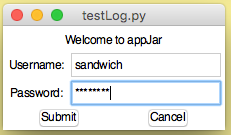
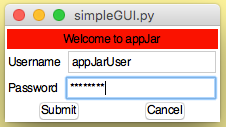
Updated front page

diff --git a/index.html b/index.html
@@ -323,15 +323,15 @@
     
         <li class="main active"><a href="#appjar">appJar</a></li>
         
-            <li><a href="#lets-make-a-sandwich">Let's make a sandwich</a></li>
+            <li><a href="#hello-appjar">Hello appJar</a></li>
         
-            <li><a href="#add-some-fillings">Add some fillings...</a></li>
+            <li><a href="#interactivity">Interactivity</a></li>
         
-            <li><a href="#foot-long-sub">Foot-long sub?</a></li>
+            <li><a href="#appearance-counts">Appearance counts</a></li>
         
-            <li><a href="#any-extras">Any extras?</a></li>
+            <li><a href="#make-your-own">Make your own</a></li>
         
-            <li><a href="#make-your-own">Make your own!</a></li>
+            <li><a href="#full-code-listing">Full code-listing</a></li>
         
     
     </ul>
@@ -339,117 +339,151 @@
             <div class="col-md-9" role="main">
 
 <h1 id="appjar">appJar</h1>
+<p><em>The easiest way to create GUIs in Python.</em>  </p>
 <hr />
-<p>This is a Python library for creating <strong>quick</strong> and <strong>easy</strong> GUIs, designed primarily for use in the <strong>classroom</strong>.  </p>
-<p>It has no dependencies, other than <a href="https://www.python.org/downloads/">Python</a> (Python 3.x or 2.7) and relies on Python's built-in <a href="https://docs.python.org/3.5/library/tkinter.html">tkinter</a> library.  </p>
-<p>It's designed to be as easy to set-up as possible, specifically with schools in mind, so can just be downloaded and used.<br />
-See the <a href="Install/">installation guidelines</a> for more information.</p>
-<h3 id="lets-make-a-sandwich">Let's make a sandwich</h3>
+<p>Written by a teacher, in the classroom, for students.  </p>
+<p><strong>appJar</strong> is designed to run on as many versions of <a href="https://www.python.org/downloads/">Python</a> as possible - so it should work in your school.  </p>
+<p>There are no other dependencies - simply <a href="https://github.com/RWBA/appJar/blob/appJar/releases/appJar.zip?raw=true">download</a>, unzip, and put it in your code folder.<br />
+Check out the <a href="./install">installation</a> instructions for other ways to get <strong>appJar</strong> working.  </p>
+<p>GUIs in Python are hard, there's a huge amount of <a href="https://en.wikipedia.org/wiki/Boilerplate_code">boilerplate code</a> required to get things working - so we hide all that.<br />
+We're also not big fans of lots of parameters, so we keep them to a minimum, instead giving functions to get &amp; set most things.  </p>
+<h3 id="hello-appjar">Hello appJar</h3>
 <hr />
-<p>Making a <a href="https://en.wikipedia.org/wiki/Graphical_user_interface">GUI</a> (using appJar) is just like making a <a href="https://en.wikipedia.org/wiki/Sandwich">sandwich</a>!  </p>
-<p>You need a slice of bread on the top and bottom, and then a bunch of fillings in the middle ...</p>
+<p><a href="https://en.wikipedia.org/wiki/Graphical_user_interface">GUIs</a> in <strong>appJar</strong> require three steps.  </p>
+<ul>
+<li>Import the library &amp; create a GUI variable.<br />
+    ( From now on, we do everything to the GUI variable. )  </li>
+</ul>
 <pre><code class="python"># import the library
 from appJar import gui
-
-# top slice - CREATE the GUI
+# create the GUI
 app = gui()
-
-### fillings go here ###
-
-# bottom slice - START the GUI
-app.go()
 </code></pre>
 
-<p>If you forget a slice of bread - you haven't got a sandwich!<br />
-Oh, and if you try to put fillings under the bottom-slice, then they won't be in the sandwich!</p>
-<h3 id="add-some-fillings">Add some fillings...</h3>
-<hr />
-<p>When making a sandwich, you could just stuff it with fillings:  </p>
 <ul>
-<li><code>addFilling('cheese', 'cheddar')</code>  </li>
-<li><code>addFilling('ham', 'smoked')</code>  </li>
+<li>Add and configure some widgets:<br />
+    ( If you've tried <a href="https://docs.python.org/3.6/library/turtle.html">turtle</a> this will all look very familiar. )  </li>
 </ul>
-<p>But it's often nice to prepare the fillings too:  </p>
-<ul>
-<li><code>setFilling('cheese', 'grated')</code> </li>
-<li><code>setFilling('ham', 'sliced')</code> </li>
-</ul>
-<pre><code class="python"># import the library
-from appJar import gui
-
-# top slice - CREATE the GUI
-app = gui()
-
-### fillings go here ###
+<pre><code class="python"># add &amp; configure widgets
 app.addLabel(&quot;title&quot;, &quot;Welcome to appJar&quot;)
 app.setLabelBg(&quot;title&quot;, &quot;red&quot;)
+</code></pre>
 
-# bottom slice - START the GUI
+<ul>
+<li>Start the GUI:<br />
+    ( <strong>NB.</strong> don't put any code after this line! )  </li>
+</ul>
+<pre><code class="python"># start the GUI
 app.go()
 </code></pre>
 
-<p><img alt="simpleApp" src="./img/simpleApp.png" /></p>
-<p>And, that's it...<br />
-The more <a href="pythonWidgets/">fillings</a> you put in your sandwich, and the more time you spend making them <a href="pythonWidgetOptions/">look nice</a>, the better it will taste!</p>
-<h3 id="foot-long-sub">Foot-long sub?</h3>
-<hr />
-<p>Of course, for most of us, a simple sandwich isn't enough...<br />
-We want to make a meal out of it!  </p>
-<p>In which case, you're going to want to arrange your fillings a bit more cleverly!</p>
 <ul>
-<li>3 slices of cheese along the bottom  </li>
-<li>Alternating slices of tomato &amp; cucumber on top  </li>
-<li>Then a mixture of onions and peppers  </li>
-<li>Finally, the sauce!  </li>
+<li>
+<p>And, that's it: </p>
+<p><img alt="simpleApp" src="./img/simpleApp.png" /></p>
+</li>
 </ul>
-<p>By default, in an appJar GUI, the fillings are simply stacked on top of each other.  </p>
-<p>However, filling a sub is very similar to filling a spreadsheet.<br />
-Simply tell each filling what layer (row) it's on, and what column it's in.<br />
-And, if you're not planning on chopping a filling, it might stretch (span) across more than one column.  </p>
-<p><a href="pythonWidgetLayout/">See here</a> for more.  </p>
-<pre><code class="python">from appJar import gui
-
-# function called by pressing the buttons
-def press(btn):
-    if btn==&quot;Cancel&quot;:
+<h3 id="interactivity">Interactivity</h3>
+<hr />
+<p>Of course, the whole point of making a GUI, is to be interactive - this requires <strong>events</strong>.  </p>
+<p>The idea behind <a href="https://en.wikipedia.org/wiki/Event-driven_programming">event-driven programming</a> is that each time the user clicks, presses or drags something (the event) the GUI should respond.  </p>
+<ul>
+<li>This requires making a function - a block of code to call, when the event happens:  </li>
+</ul>
+<pre><code class="python">def press(button):
+    if button == &quot;Cancel&quot;:
         app.stop()
     else:
-        print(&quot;User:&quot;, app.getEntry('user'), &quot;Pass:&quot;, app.getEntry('pass'))
-
-app = gui()
-
-app.addLabel(&quot;title&quot;, &quot;Welcome to appJar&quot;, 0, 0, 2)  # Row 0,Column 0,Span 2
-app.addLabel(&quot;user&quot;, &quot;Username:&quot;, 1, 0)              # Row 1,Column 0
-app.addEntry(&quot;user&quot;, 1, 1)                           # Row 1,Column 1
-app.addLabel(&quot;pass&quot;, &quot;Password:&quot;, 2, 0)              # Row 2,Column 0
-app.addSecretEntry(&quot;pass&quot;, 2, 1)                     # Row 2,Column 1
-app.addButtons([&quot;Submit&quot;, &quot;Cancel&quot;], press, 3, 0, 2) # Row 3,Column 0,Span 2
-
-app.setEntryFocus(&quot;user&quot;)
-
-app.go()
+        usr = app.getEntry(&quot;Username&quot;)
+        pwd = app.getEntry(&quot;Password&quot;)
+        print(&quot;User:&quot;, usr, &quot;Pass:&quot;, pwd)
 </code></pre>
 
+<ul>
+<li>Then add some more widgets, for the user to interact with:</li>
+</ul>
+<pre><code class="python">app.addLabelEntry(&quot;Username&quot;)
+app.addLabelSecretEntry(&quot;Password&quot;)
+</code></pre>
+
+<ul>
+<li>And, widgets to create events:  </li>
+</ul>
+<pre><code class="python"># give the name of the function - press
+app.addButtons([&quot;Submit&quot;, &quot;Cancel&quot;], press)
+</code></pre>
+
+<ul>
+<li>
+<p>We now have an interactive GUI: </p>
 <p><img alt="testLog" src="./img/testLog.png" /></p>
-<h3 id="any-extras">Any extras?</h3>
+</li>
+</ul>
+<p>Now, when the user presses a button, the <code>press()</code> function is called, passing the name of the button as a parameter.  </p>
+<h3 id="appearance-counts">Appearance counts</h3>
 <hr />
-<p>It's possible to make changes to how the GUI looks<br />
-For starters, you can specify a name and size for your GUI when you make it:  </p>
-<ul>
-<li><code>app=gui("Login Window", "400x200")</code>  </li>
-</ul>
-<p>And, you can choose what kind of bread, and whether it's toasted:   </p>
-<ul>
-<li><code>app.setBg("Brown")</code></li>
-<li><code>app.setFont(20)</code></li>
-</ul>
-<p><a href="pythonGuiOptions/">See here</a> for more.  </p>
+<p>As well as changing widgets, you can also change the way the <a href="./pythonGuiOptions">GUI looks</a>.  </p>
+<p>For starters, you can specify a name and size for your GUI when you make it:  </p>
+<pre><code class="python">app = gui(&quot;Login Window&quot;, &quot;400x200&quot;)
+</code></pre>
+
+<p>And, change the general appearance:  </p>
+<pre><code class="python">app.setBg(&quot;orange&quot;)
+app.setFont(18)
+</code></pre>
+
+<p>You can even specify where you want the cursor to be when the user starts typing:</p>
+<pre><code class="python">app.setFocus(&quot;Username&quot;)
+</code></pre>
+
 <p><img alt="testLog" src="./img/testLog2.png" /></p>
-<h3 id="make-your-own">Make your own!</h3>
+<p>( <strong>NB.</strong> We also set some other colours on the label - see <a href="#full-code-listing">below</a>. )  </p>
+<h3 id="make-your-own">Make your own</h3>
 <hr />
-<p>That's about it for now.<br />
-Have a look around, discover all of the different <a href="pythonWidgets/">fillings</a> available.<br />
-And, investigate how best to <a href="pythonWidgetGrouping/">present </a> your sandwich!</p></div>
+<p>And, that's all you need to know. Check out:  </p>
+<ul>
+<li>All the different <a href="./pythonWidgets">widgets</a> available.  </li>
+<li>Our support for <a href="./pythonImages">images</a> and <a href="./pythonSound">sound</a>.  </li>
+<li>How to include <a href="./pythonBars">toolbars, menubars &amp; statusbars</a>.  </li>
+<li>How to create simple <a href="./pythonDialogs">pop-ups</a>.  </li>
+<li>How to use a <a href="./pythonWidgetLayout">grid layout</a>.  </li>
+<li>How to use <a href="./pythonWidgetGrouping">containers</a> for more advanced layouts.  </li>
+</ul>
+<h3 id="full-code-listing">Full code-listing</h3>
+<hr />
+<p>Below is the full code-listing created on this page:  </p>
+<pre><code class="python"># import the library
+from appJar import gui
+
+# handle button events
+def press(button):
+    if button == &quot;Cancel&quot;:
+        app.stop()
+    else:
+        usr = app.getEntry(&quot;Username&quot;)
+        pwd = app.getEntry(&quot;Password&quot;)
+        print(&quot;User:&quot;, usr, &quot;Pass:&quot;, pwd)
+
+# create the GUI
+app = gui(&quot;Login Window&quot;, &quot;400x200&quot;)
+app.setBg(&quot;orange&quot;)
+app.setFont(18)
+
+# add &amp; configure widgets
+app.addLabel(&quot;title&quot;, &quot;Welcome to appJar&quot;)
+app.setLabelBg(&quot;title&quot;, &quot;blue&quot;)
+app.setLabelFg(&quot;title&quot;, &quot;orange&quot;)
+
+app.addLabelEntry(&quot;Username&quot;)
+app.addLabelSecretEntry(&quot;Password&quot;)
+# give the name of the function - press
+app.addButtons([&quot;Submit&quot;, &quot;Cancel&quot;], press)
+
+app.setFocus(&quot;Username&quot;)
+
+# start the GUI
+app.go()
+</code></pre></div>
         </div>
 
         <footer class="col-md-12">
